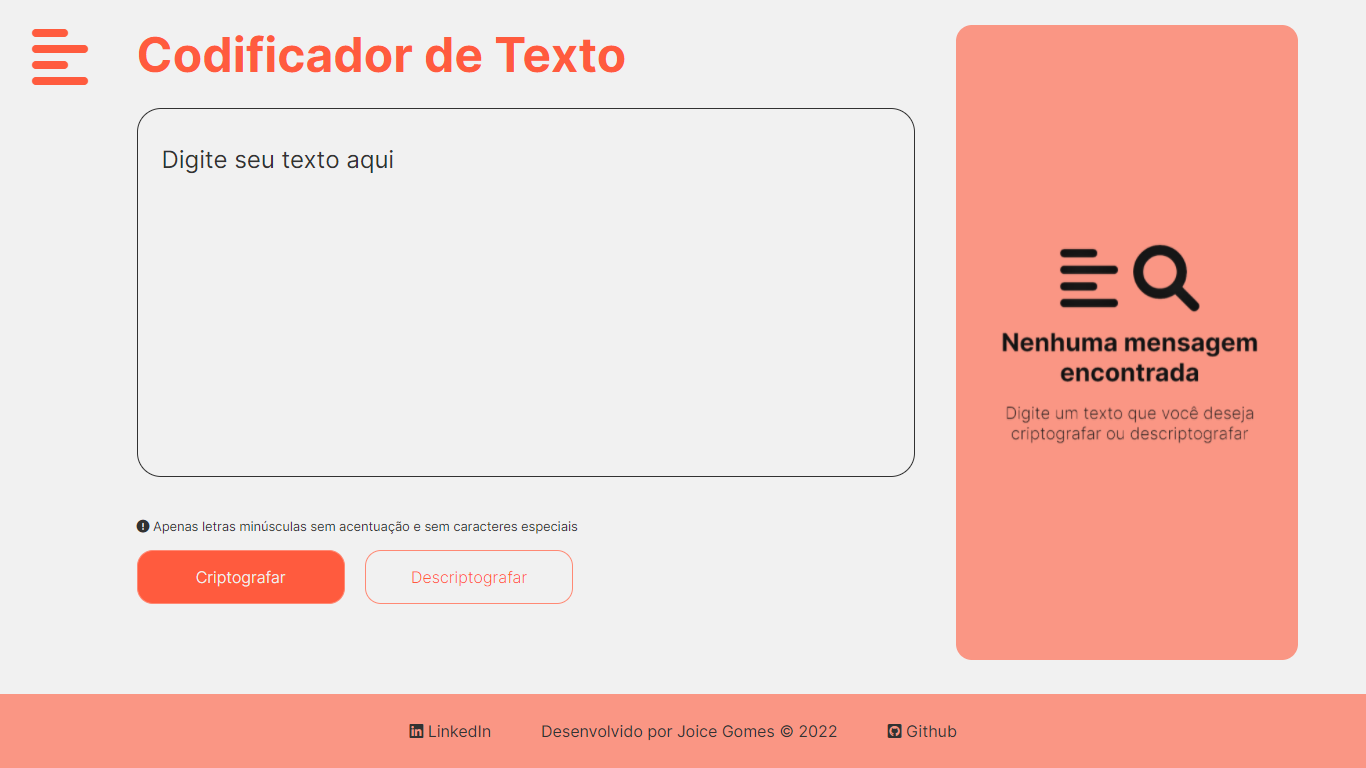
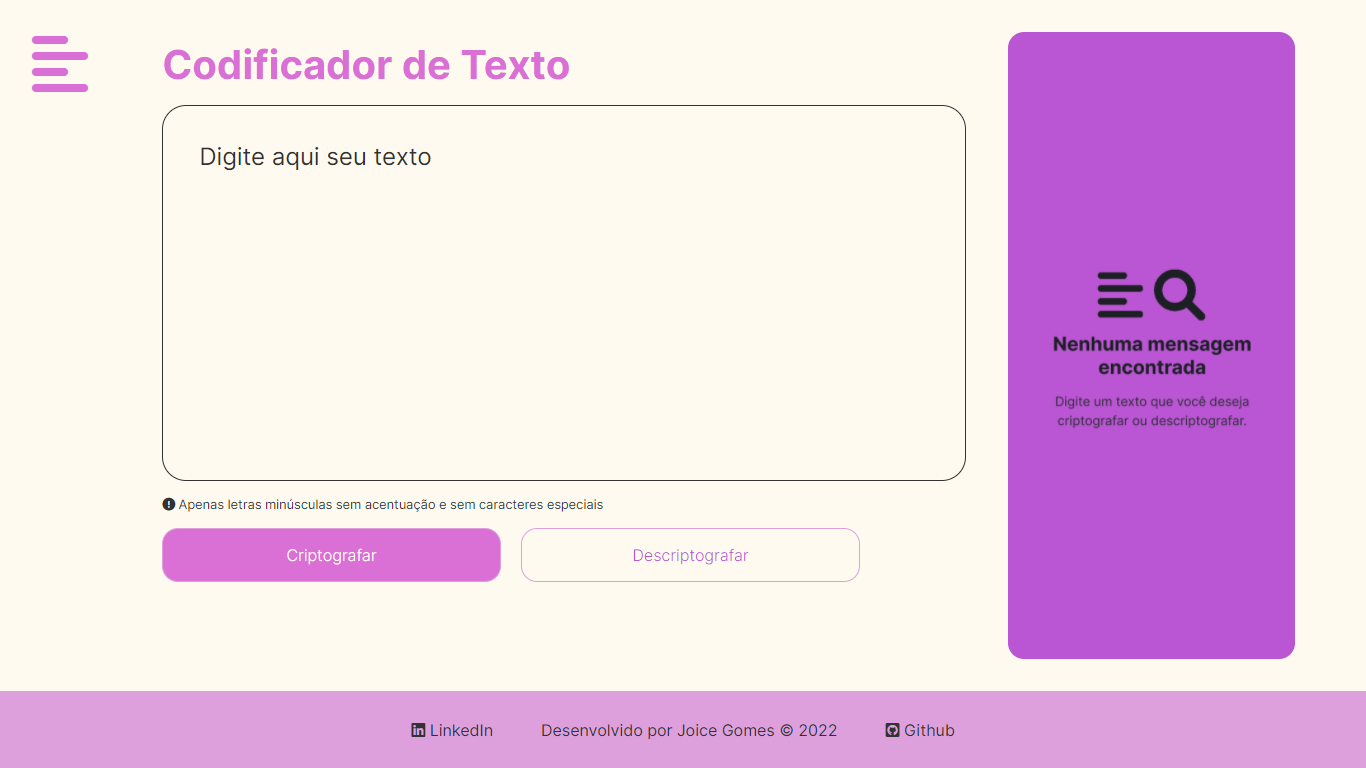
css,script fixed; gifs added; README modified

diff --git a/assets/style.css b/assets/style.css
@@ -2,12 +2,11 @@
 
 /* Variables */
 :root {
-    --bg-color: floralwhite;
+    --white-color: floralwhite;
     --color: orchid;
     --lcolor: plum;
     --dcolor: mediumorchid;
-    --text-color: #323232;
-    --btn-bg: floralwhite;
+    --black-color: #323232;
 }
 
 /* General */
@@ -21,7 +20,7 @@
 }
 
 body {
-    background-color: var(--bg-color);
+    background-color: var(--white-color);
     display: flex;
     flex-direction: column;
     align-items: center;
@@ -32,7 +31,7 @@ body {
 main {
     display: flex;
     flex-direction: column;
-    color: var(--text-color);
+    color: var(--black-color);
     padding: 2em;
     height: 100%;
     width: 100%;
@@ -64,7 +63,7 @@ main {
 
 #text-input {
     background-color: transparent;
-    border: 1px solid var(--text-color);
+    border: 1px solid var(--black-color);
     border-radius: 1em;
     display: block;
     font-size: 1.5em;
@@ -76,7 +75,7 @@ main {
 
 #text-input[contenteditable]:empty::before {
     content: "Digite aqui seu texto";
-    color: var(--text-color);
+    color: var(--black-color);
 }
 
 .buttons-container {
@@ -105,28 +104,28 @@ button {
 
 button:hover {
     background-color: var(--dcolor);
-    color: var(--bg-color);
+    color: var(--white-color);
     transition: 1s;
 }
 
 button:active{
-    background-color: var(--bg-color);
+    background-color: var(--white-color);
 }
 
 .dark-btn {
     background-color: var(--color);
-    color: var(--bg-color);
+    color: var(--white-color);
 }
 
 .light-btn {
-    background-color: var(--bg-color);
+    background-color: var(--white-color);
     color: var(--dcolor);
 }
 
 /* Text Output */
 
 .text-output-container {
-    background-color: var(--lcolor);
+    background-color: var(--dcolor);
     border-radius: 1em;
     display: flex;
     flex-direction: column;
@@ -140,7 +139,7 @@ button:active{
 #text-output {
     border: none;
     background-color: transparent;
-    color: var(--text-color);
+    color: var(--black-color);
     font-size: 1.2em;
     padding: 2em;
     resize: none;
@@ -162,8 +161,8 @@ button:active{
 
 footer {
     display: flex;
-    background-color: var(--dcolor);
-    color: var(--bg-color);
+    background-color: var(--lcolor);
+    color: var(--black-color);
     align-items: center;
     justify-content: space-evenly;
     font-size: 1em;
@@ -175,5 +174,5 @@ footer {
 }
 
 footer a{
-    color: var(--bg-color);
+    color: var(--black-color);
 }

diff --git a/assets/script.js b/assets/script.js
@@ -16,7 +16,7 @@ function encryptText() {
     let result;
 
     if (input.innerText === '') {
-        input.placeholder = 'Digite um texto primeiro!';
+        alert('Digite um texto primeiro!');
     } else {
         for (let i = 0; i < textArray.length; i++) {
             if (textArray[i] === 'a') {
@@ -43,7 +43,7 @@ function decryptText() {
     let result;
 
     if (input.innerText === '') {
-        input.placeholder = 'Digite um texto primeiro!';
+        alert('Digite um texto primeiro!');
     } else {
         result = text.replace(/ai/g, 'a').replace(/enter/g, 'e').replace(/imes/g, 'i').replace(/ober/g, 'o').replace(/ufat/g, 'u');
         noMsgImg.style.display = 'none';

diff --git a/assets/responsive.css b/assets/responsive.css
@@ -51,7 +51,7 @@
 
     .text-output-container{
         height: 100%;
-        width: 25%;
+        width: 22%;
     }
 
     #text-output{

diff --git a/README.md b/README.md
@@ -1,12 +1,14 @@
 # Site Codificador/Decodificador de Texto
 
+![](screenshot.png)
+
 Projeto desenvolvido para o 1º Alura Challenge do programa Oracle Next Education | ONE.  
 
-O challenge consiste em contruir um decodificador de texto com JavaScript.
+O challenge consiste em contruir um codificador de texto com JavaScript.
 
-![]()
+![](gif.gif)
 
-### <center> Acesse o site clicando [aqui](https://joi-gn.github.io/codificador_de_texto_js/)
+### Acesse o site clicando [aqui](https://joi-gn.github.io/codificador_de_texto_js/)
 
 ## O que foi utilizado
 Para estruturar o site foi utilizado HTML, para estilizar, CSS. E JavaScript foi utilizado para a parte interativa do site.
@@ -18,4 +20,4 @@ Também para dar interatividade com os botões, utilizei eventos como onclick pa
 Para a lógica das funções, foi utilizado métodos dos arrays e strings, condicionais e estruturas de repetição.
 
 ## Responsividade
-Em construção
+![](gif-responsividade.gif)
